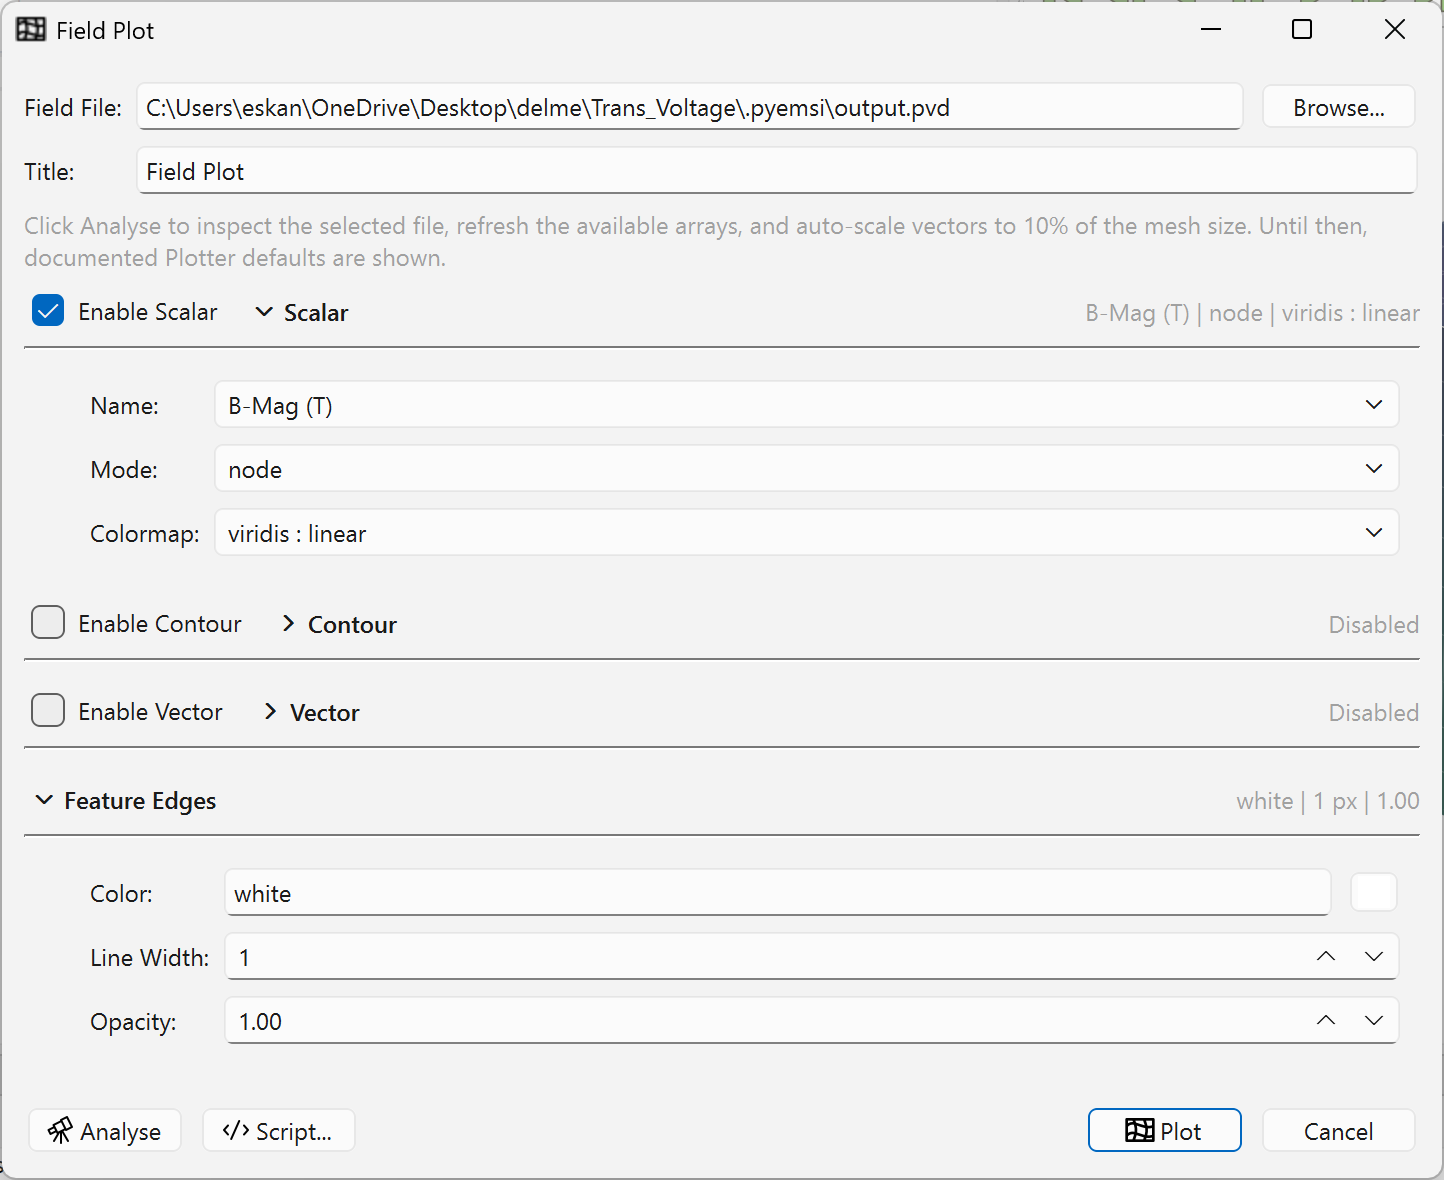
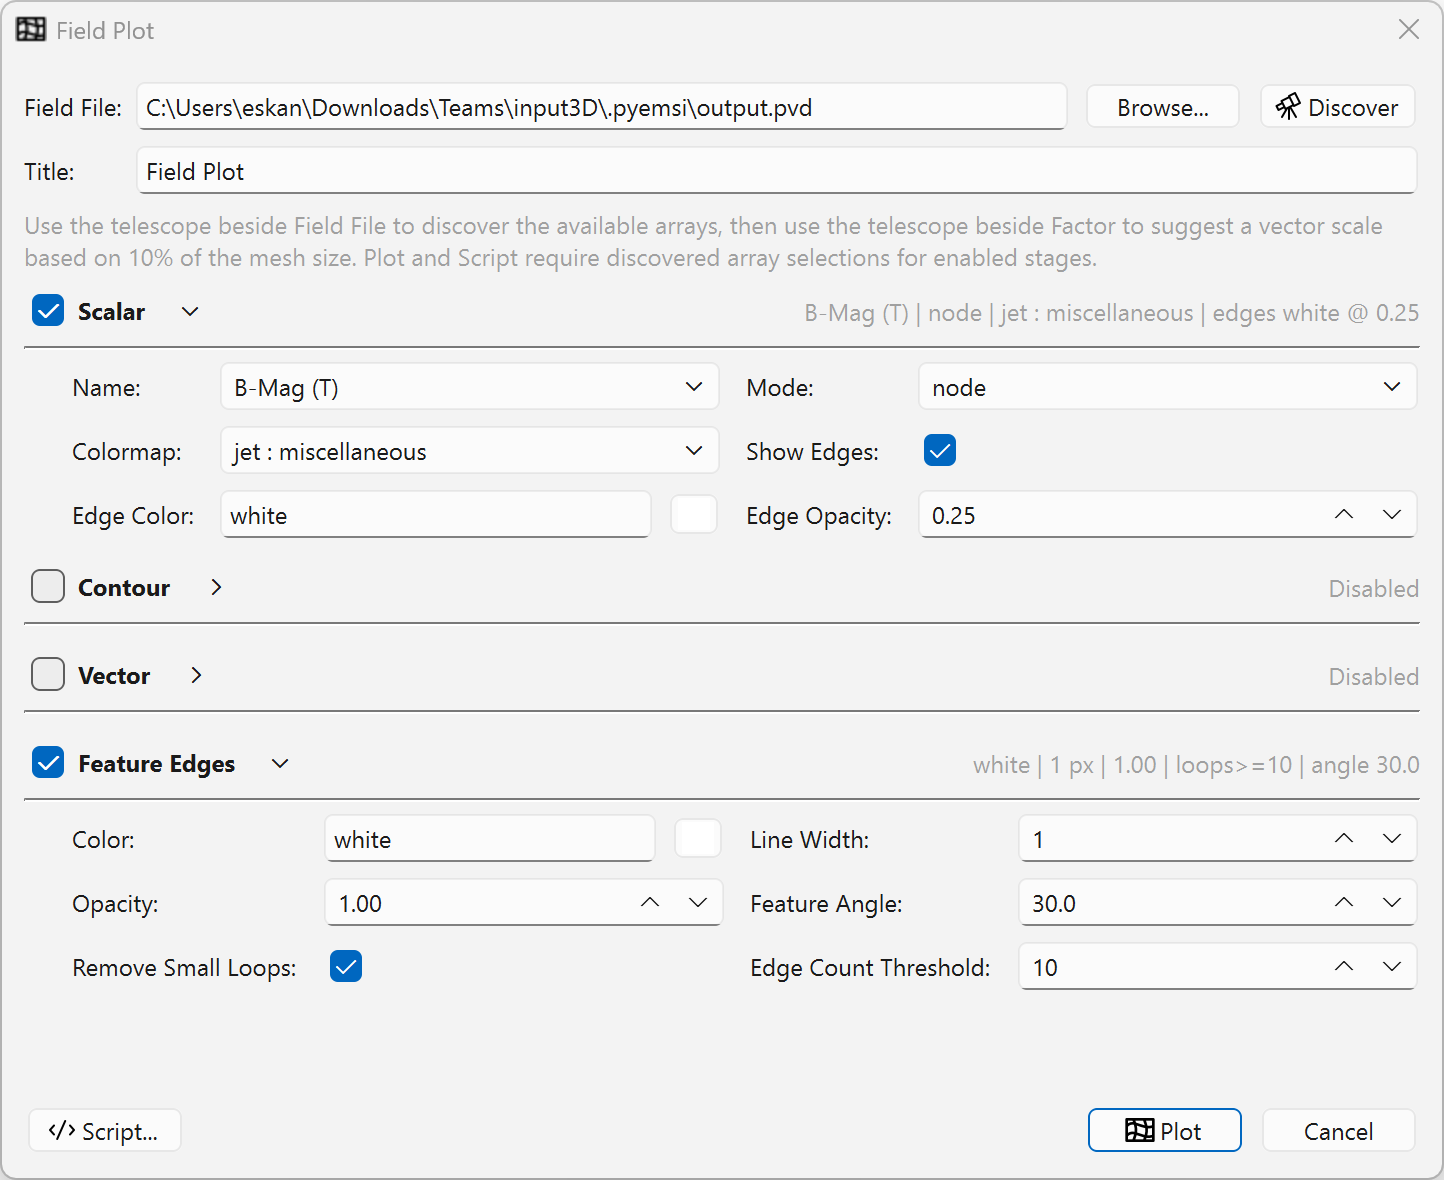
update docs and a minor fix

diff --git a/pyemsi/gui/main_window.py b/pyemsi/gui/main_window.py
@@ -578,6 +578,7 @@ class PyEmsiMainWindow(QMainWindow):
         self._settings.load_workspace(None)
         self._update_settings_actions()
         self.setWindowTitle("pyemsi")
+        self._field_plot_dialog = None
         return True
 
     def _reset_ipython_kernel(self) -> None:

diff --git a/docs/docs/docs/basics/field-plot.md b/docs/docs/docs/basics/field-plot.md
@@ -67,6 +67,9 @@ It includes:
 - `Name`: the scalar field to display
 - `Mode`: whether the values are shown from node data or element data
 - `Colormap`: the colormap used to color the field
+- `Show Edges`: toggles edge rendering on top of the scalar surface
+- `Edge Color`: edge color used when `Show Edges` is enabled
+- `Edge Opacity`: edge opacity used when `Show Edges` is enabled
 
 ### Contour
 
@@ -100,9 +103,12 @@ The `Feature Edges` section controls the mesh-edge overlay.
 
 It includes:
 
-- edge color
-- line width
-- opacity
+- `Color`: feature-edge color
+- `Line Width`: feature-edge thickness
+- `Opacity`: feature-edge opacity
+- `Remove Small Loops`: removes short closed edge loops from the extracted result
+- `Edge Count Threshold`: the maximum loop size (in edge count) removed when `Remove Small Loops` is enabled
+- `Feature Angle`: angle threshold passed to PyVista edge extraction; see [PyVista `extract_feature_edges` docs](https://docs.pyvista.org/api/core/_autosummary/pyvista.datasetfilters.extract_feature_edges)
 
 This helps make geometry boundaries easier to read in the final field view.
 